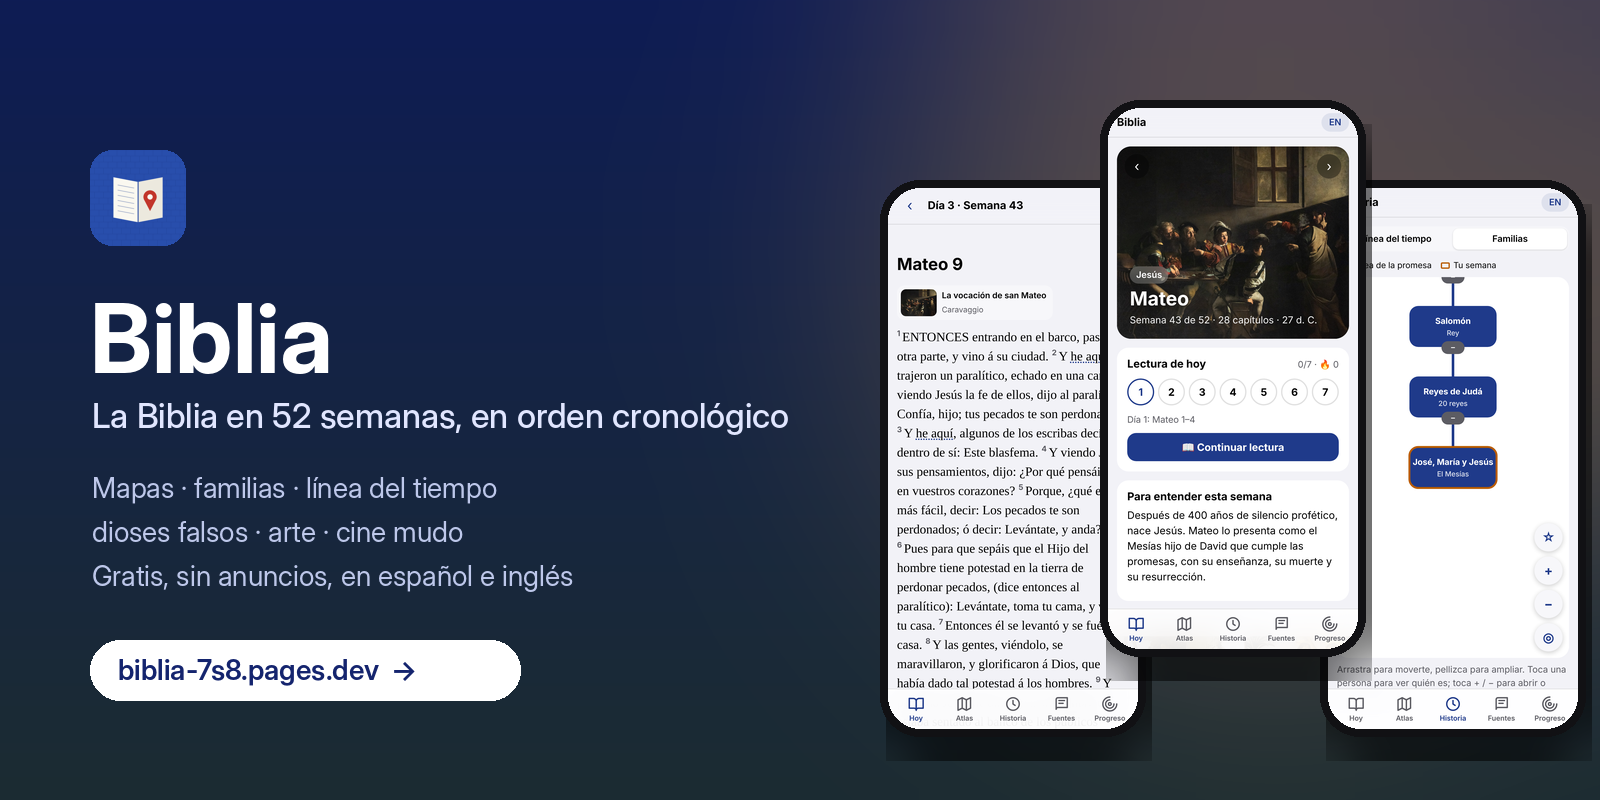
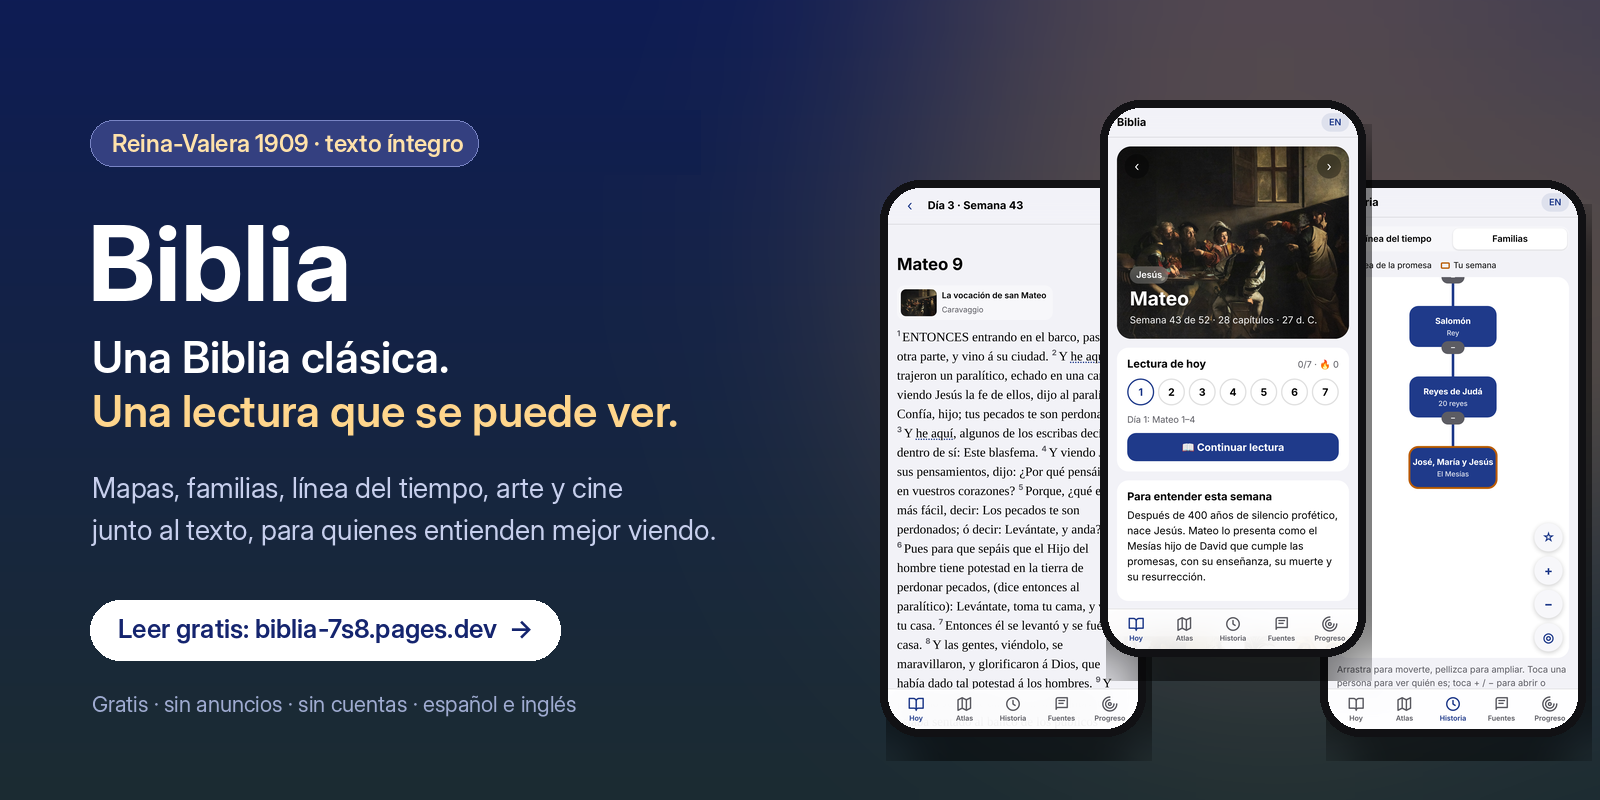
Presentación centrada en la idea: Reina-Valera 1909 íntegra y lectura visual
Claude-Session: https://claude.ai/code/session_01JGXeMmKkuUXz6KsBPbJQoA

diff --git a/README.md b/README.md
@@ -1,87 +1,88 @@
 <p align="center">
-  <a href="https://biblia-7s8.pages.dev"><img src="docs/banner.png" alt="Biblia — la Biblia en 52 semanas, en orden cronológico" width="100%"></a>
+  <a href="https://biblia-7s8.pages.dev"><img src="docs/banner.png" alt="Biblia — una Biblia clásica, una lectura que se puede ver" width="100%"></a>
 </p>
 
 <p align="center">
-  <a href="https://biblia-7s8.pages.dev"><b>Abrir la app →</b></a> ·
-  <a href="#cómo-instalarla">Instalar en tu teléfono</a> ·
+  <a href="https://biblia-7s8.pages.dev"><b>Empezar a leer →</b></a> ·
+  <a href="#cómo-tenerla-en-tu-teléfono">Tenerla en tu teléfono</a> ·
   <a href="#english">English</a>
-</p>
-
-<p align="center">
-  <img alt="Gratis" src="https://img.shields.io/badge/precio-gratis-2a8c45">
-  <img alt="Sin anuncios" src="https://img.shields.io/badge/anuncios-ninguno-2a8c45">
-  <img alt="Idiomas" src="https://img.shields.io/badge/idiomas-español%20%7C%20english-1f3a8a">
-  <img alt="Funciona sin internet" src="https://img.shields.io/badge/sin%20internet-sí-1f3a8a">
 </p>
 
 ---
 
-**Biblia** es una compañera de lectura para leer la Biblia completa en un año, **en el orden en que ocurrieron los hechos**. Mientras lees, te muestra dónde quedan hoy los lugares, quién es quién en cada familia, qué pasaba en el mundo en esos años, qué dioses falsos adoraban los pueblos vecinos, y cómo los grandes artistas y el cine mudo imaginaron cada escena.
+## La idea
 
-Es gratuita, sin anuncios, sin cuentas y sin rastreo: tu progreso se guarda solo en tu teléfono.
+**Una Biblia clásica, con una lectura mejorada.**
 
-## Lo que trae
+Elegimos la **Reina-Valera de 1909**: una edición clásica en español, de dominio público, que se lee tal como fue publicada, sin las revisiones posteriores. El texto no se toca.
+
+Lo que sí agregamos es todo lo que ayuda a entenderlo: dónde ocurrió cada cosa, quién era quién, qué pasaba en el mundo en esos años y cómo se veía. Muchas personas entienden mejor **viendo** que solo leyendo; esta Biblia está hecha para ellas.
+
+## Una lectura mejorada
+
+Lees el texto completo, y alrededor de él aparece la información pertinente justo cuando la necesitas:
+
+- **En orden cronológico.** La Biblia completa en 52 semanas, en el orden en que ocurrieron los hechos: Job junto a los patriarcas, los profetas junto a los reyes de su tiempo.
+- **Palabras antiguas explicadas.** El español de 1909 tiene palabras que ya no usamos; tócalas y te dice qué significan.
+- **Mismo evento, varios libros.** Cuando un hecho aparece en más de un libro (la caída de Jerusalén, la última cena, la conversión de Pablo), te avisa dónde más se cuenta para que compares.
+- **Contexto de cada semana.** Un resumen breve de lo que vas a leer y por qué importa.
+- **Otros escritos de la época.** Enoc, los Rollos del Mar Muerto, Josefo y más, con su relación con tu lectura y por qué no forman parte de la Biblia.
+
+## Para quienes entienden mejor viendo
 
 <table>
 <tr>
-<td width="25%"><img src="docs/screens/hoy.png" alt="Pantalla Hoy"></td>
-<td width="25%"><img src="docs/screens/lector.png" alt="Lector"></td>
+<td width="25%"><img src="docs/screens/atlas.png" alt="Atlas"></td>
 <td width="25%"><img src="docs/screens/arbol.png" alt="Árbol genealógico"></td>
 <td width="25%"><img src="docs/screens/tiempo.png" alt="Línea del tiempo"></td>
-</tr>
-<tr>
-<td valign="top"><b>Plan de 52 semanas</b><br>Siete lecturas por semana en orden cronológico, con racha y avance.</td>
-<td valign="top"><b>Lector</b><br>Reina-Valera 1909. Toca una palabra antigua para ver qué significa; resalta, copia y comparte versículos.</td>
-<td valign="top"><b>Árbol genealógico</b><br>De Adán a Jesús, con la línea de la promesa resaltada. Se mueve, se amplía y abre ramas.</td>
-<td valign="top"><b>Línea del tiempo</b><br>Reyes, profetas e imperios. Desliza y ve quién gobernaba en cada año.</td>
-</tr>
-<tr>
-<td width="25%"><img src="docs/screens/atlas.png" alt="Atlas"></td>
-<td width="25%"><img src="docs/screens/dioses.png" alt="dioses falsos"></td>
 <td width="25%"><img src="docs/screens/arte.png" alt="Arte"></td>
-<td width="25%"><img src="docs/screens/cine.png" alt="Cine"></td>
 </tr>
 <tr>
-<td valign="top"><b>Atlas</b><br>Mapa satelital con cada lugar y lo que es hoy: Ur está en Irak, Edom en Jordania.</td>
-<td valign="top"><b>dioses falsos</b><br>baal, moloc, asera, quemós, hubal y más: qué eran, dónde se adoraban y qué dice la Biblia.</td>
-<td valign="top"><b>Arte</b><br>60 obras de dominio público —Leonardo, Miguel Ángel, Caravaggio, Rembrandt— ligadas a su pasaje.</td>
-<td valign="top"><b>Cine mudo</b><br>20 escenas de películas de dominio público, como <i>Cabiria</i> (1914) y <i>El Rey de reyes</i> (1927).</td>
+<td valign="top"><b>Dónde pasó</b><br>Un mapa satelital con cada lugar y el país donde queda hoy: Ur está en Irak, Edom en Jordania.</td>
+<td valign="top"><b>Quién es quién</b><br>Un árbol genealógico de Adán a Jesús, con la línea de la promesa resaltada.</td>
+<td valign="top"><b>Cuándo pasó</b><br>Reyes, profetas e imperios en una línea del tiempo: desliza y ve quién gobernaba ese año.</td>
+<td valign="top"><b>Cómo se veía</b><br>60 obras clásicas —Leonardo, Miguel Ángel, Caravaggio, Rembrandt— junto al pasaje que pintaron.</td>
+</tr>
+<tr>
+<td width="25%"><img src="docs/screens/cine.png" alt="Cine"></td>
+<td width="25%"><img src="docs/screens/dioses.png" alt="dioses falsos"></td>
+<td width="25%"><img src="docs/screens/lector.png" alt="Lector"></td>
+<td width="25%"><img src="docs/screens/hoy.png" alt="Hoy"></td>
+</tr>
+<tr>
+<td valign="top"><b>En movimiento</b><br>20 escenas de cine mudo clásico, como <i>Cabiria</i> (1914) y <i>El Rey de reyes</i> (1927), ligadas a su pasaje.</td>
+<td valign="top"><b>A quién adoraban</b><br>Los dioses falsos de los pueblos vecinos —baal, moloc, asera, quemós— y qué dice la Biblia de ellos.</td>
+<td valign="top"><b>Todo junto al texto</b><br>Mientras lees, cada capítulo muestra su arte, sus escenas y sus paralelos.</td>
+<td valign="top"><b>Tu lectura de hoy</b><br>Siete lecturas por semana, con tu avance y tu racha de días.</td>
 </tr>
 </table>
 
-**Y además:**
+## Cómo tenerla en tu teléfono
 
-- **Mismo evento, varios libros.** Cuando lees un relato que la Biblia cuenta más de una vez (la caída de Jerusalén, la última cena, la conversión de Pablo), te avisa dónde más aparece para comparar.
-- **Otros escritos antiguos.** Enoc, los Rollos del Mar Muerto, Josefo, la Epopeya de Gilgamesh y 40 textos más, con su relación con tu lectura y por qué no están en el canon.
-- **Regiones de hoy.** Cada semana te dice a qué países actuales corresponden los lugares que lees.
-- **Español e inglés**, con un solo toque.
-- **Funciona sin internet** con lo que ya abriste, y se instala como una app.
+Es gratis, sin anuncios y sin crear cuenta. No necesitas tienda de apps:
 
-## Cómo instalarla
-
-No necesitas tienda de apps.
-
-- **iPhone o iPad:** abre [biblia-7s8.pages.dev](https://biblia-7s8.pages.dev) en Safari → toca **Compartir** → **Agregar a pantalla de inicio**.
+- **iPhone o iPad:** abre [biblia-7s8.pages.dev](https://biblia-7s8.pages.dev) en Safari → **Compartir** → **Agregar a pantalla de inicio**.
 - **Android:** ábrela en Chrome → menú **⋮** → **Instalar app**.
-- **Computadora:** solo ábrela en el navegador.
+- **Computadora:** ábrela en el navegador.
 
-## Fuentes y derechos
+Tu progreso se guarda solo en tu teléfono, y lo que ya abriste funciona sin internet.
+
+## Fuentes
 
 | Contenido | Fuente | Licencia |
 |---|---|---|
-| Texto bíblico (español) | Reina-Valera 1909 | Dominio público |
-| Texto bíblico (inglés) | Berean Standard Bible | Dominio público |
-| Obras de arte | Wikimedia Commons | Dominio público; fotos de esculturas con crédito al fotógrafo según su licencia CC |
+| Texto bíblico | Reina-Valera 1909 (inglés: Berean Standard Bible) | Dominio público |
+| Obras de arte | Wikimedia Commons | Dominio público; las fotos de esculturas llevan el crédito de su fotógrafo |
 | Películas | Internet Archive | Dominio público |
 | Mapas | Esri World Imagery | Con atribución |
 | Artículos | Wikipedia | CC BY-SA |
 
-Las fechas son aproximadas. Las películas son interpretaciones artísticas y pueden añadir o cambiar detalles del texto bíblico.
+Las fechas son aproximadas. El arte y las películas son interpretaciones de sus autores y pueden añadir detalles que no están en el texto; para eso cada uno lleva su pasaje, para compararlo con lo que dice la Biblia.
 
-## Para desarrolladores
+<details>
+<summary><b>Para desarrolladores</b></summary>
 
-Es un sitio estático: HTML, CSS y JavaScript sin compilar, más [Leaflet](https://leafletjs.com) para el mapa. No hay servidor ni base de datos.
+Sitio estático (HTML, CSS y JavaScript sin compilar, más [Leaflet](https://leafletjs.com) para el mapa). No hay servidor ni base de datos.
 
 ```
 index.html, app.css, app.js   la app
@@ -90,18 +91,17 @@ data/                         contenido (es/en) y texto bíblico por libro
 img/  clips/  vendor/         íconos, escenas y Leaflet
 ```
 
-Para probarla en tu computadora: `python3 -m http.server` dentro de la carpeta y abre `http://localhost:8000`.
-
-Se publica sola en Cloudflare Pages con cada cambio a `main`.
+Para probarla: `python3 -m http.server` dentro de la carpeta y abre `http://localhost:8000`. Se publica sola en Cloudflare Pages con cada cambio a `main`.
+</details>
 
 ---
 
 ## English
 
-**Biblia** is a free companion for reading the whole Bible in a year, **in the order events happened**. As you read, it shows where places are today, who's who in each family tree, what else was happening in the world, which false gods the neighboring peoples worshiped, and how great artists and silent films imagined each scene.
+**A classic Bible, with a reading you can see.**
 
-No ads, no accounts, no tracking — your progress stays on your device. Switch to English with the **EN** button.
+The Spanish text is the **1909 Reina-Valera**, a classic public-domain edition read exactly as published, without later revisions. The English version uses the public-domain Berean Standard Bible.
 
-**[Open the app →](https://biblia-7s8.pages.dev)** · On iPhone: Safari → Share → *Add to Home Screen*. On Android: Chrome → ⋮ → *Install app*.
+Around the untouched text, the app adds what helps you understand it — where each event happened and what country it is today, family trees, a timeline of kings and prophets, the false gods of neighboring peoples, classic paintings and silent-film scenes of each passage. It's made for people who understand better by seeing.
 
-Bible text: Reina-Valera 1909 (Spanish) and Berean Standard Bible (English), both public domain.
+Free, no ads, no account. **[Start reading →](https://biblia-7s8.pages.dev)** — on iPhone: Safari → Share → *Add to Home Screen*.
